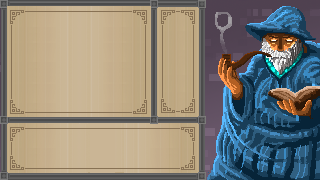
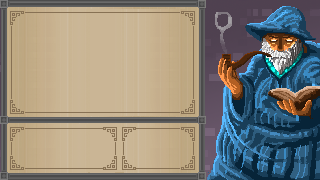
UI reordering, now using UITabs

Changed region(s): [[0.0312, 0.0, 0.625, 0.6944], [0.3125, 0.6944, 0.4375, 0.8056], [0.3125, 0.8611, 0.4375, 0.9444]]

diff --git a/BattleMages/Scenes/ShopScene.cs b/BattleMages/Scenes/ShopScene.cs
@@ -18,8 +18,14 @@ namespace BattleMages
 
         private AttributeRune selectedRune;
 
+        private UITab upperTab;
+        private UITab lowerLeftTab;
+        private UITab lowerRightTab;
+
         //bool for returning to the lobby after entering the shop
         private bool cPressed;
+
+        private string descriptionText;
 
         //TO DO:
         //connect "currentMoney" to master's "playerGold".
@@ -28,25 +34,53 @@ namespace BattleMages
 
         public ShopScene(Scene oldScene)
         {
+            upperTab = new UITab(this, GameWorld.Camera.Position - GameWorld.GameSize / 2 + new Vector2(12, 12), new Vector2(181, 100));
+            lowerLeftTab = new UITab(this, GameWorld.Camera.Position - GameWorld.GameSize / 2 + new Vector2(12, 129), new Vector2(103, 39));
+            lowerRightTab = new UITab(this, GameWorld.Camera.Position - GameWorld.GameSize / 2 + new Vector2(124, 129), new Vector2(69, 39));
+
+            descriptionText = "Click a rune to select it.";
+
             var content = GameWorld.Instance.Content;
             this.oldScene = oldScene;
             background = content.Load<Texture2D>("Backgrounds/ShopKeeperbg");
             font = content.Load<SpriteFont>("FontBM");
             titleFont = content.Load<SpriteFont>("TitleFont");
 
+            //Buy Button
+            var shopButton = content.Load<Texture2D>("Textures/UI/Spellbook/SmallButton");
+            var shopButton_hover = content.Load<Texture2D>("Textures/UI/Spellbook/SmallButton_Hover");
+            lowerRightTab.AddObject(ObjectBuilder.BuildButton(lowerRightTab.BotLeft + new Vector2(lowerRightTab.Size.X / 2, -8),
+                shopButton,
+                shopButton_hover,
+                 () =>
+                 {
+                     if (GameWorld.State.PlayerGold >= selectedRune.CostInShop)
+                     {
+                         GameWorld.State.PlayerGold -= selectedRune.CostInShop;
+                         //TODO: Add rune to the list of available runes
+                     }
+                 }, centered: true));
+
+            RefreshRuneList();
+        }
+
+        private void RefreshRuneList()
+        {
+            upperTab.Clear();
+
             int nextRuneX = 0;
             int nextRuneY = 0;
             int nextRunePos = 0;
 
-            var btnTex = content.Load<Texture2D>("Textures/UI/Spellbook/SmallButton");
-            var btnTexHover = content.Load<Texture2D>("Textures/UI/Spellbook/SmallButton_Hover");
+            var btnTex = GameWorld.Load<Texture2D>("Textures/UI/Spellbook/SmallButton");
+            var btnTexHover = GameWorld.Load<Texture2D>("Textures/UI/Spellbook/SmallButton_Hover");
 
             foreach (AttributeRune attrRune in StaticData.AttributeRunes)
             {
+                if (GameWorld.State.AvailableRunes.Contains(attrRune)) continue;
                 AttributeRune thisRune = attrRune;
 
-                Vector2 pos = new Vector2(GameWorld.Camera.Position.X - GameWorld.GameWidth / 2 + 16 + nextRuneX, GameWorld.Camera.Position.Y - GameWorld.GameHeight / 2 + 15 + nextRuneY);
-
+                Vector2 pos = upperTab.TopLeft + new Vector2(4 + nextRuneX, 4 + nextRuneY);
                 GameObject runeObj = new GameObject(pos + Vector2.One * 8);
                 runeObj.AddComponent(new Button(
                     btnTex,
@@ -54,10 +88,11 @@ namespace BattleMages
                     () =>
                     {
                         selectedRune = thisRune;
+                        descriptionText = selectedRune.Name + Environment.NewLine + selectedRune.Description;
                     },
                     centered: true));
                 runeObj.AddComponent(new SpriteRenderer(StaticData.RuneImagePath + thisRune.TextureName));
-                AddObject(runeObj);
+                upperTab.AddObject(runeObj);
 
                 nextRuneX += 16;
                 nextRunePos++;
@@ -67,47 +102,29 @@ namespace BattleMages
                     nextRuneY += 16;
                 }
             }
-            //Buy Button
-            var shopButton = content.Load<Texture2D>("Textures/UI/Spellbook/SmallButton");
-            var shopButton_hover = content.Load<Texture2D>("Textures/UI/Spellbook/SmallButton_Hover");
-            AddObject(ObjectBuilder.BuildButton(new Vector2(GameWorld.Camera.Position.X - GameWorld.GameWidth / 2 + 170, GameWorld.Camera.Position.Y - GameWorld.GameHeight / 2 + 50),
-                shopButton,
-                shopButton_hover,
-             () =>
-             {
-                 if (GameWorld.State.PlayerGold >= selectedRune.CostInShop)
-                 {
-                     GameWorld.State.PlayerGold -= selectedRune.CostInShop;
-                     //TODO: Add rune to the list of available runes
-                 }
-             }));
         }
 
         public override void Draw(Drawer drawer)
         {
-            //Text
             Color textColor = new Color(120, 100, 80);
-            drawer[DrawLayer.UI].DrawString(titleFont, "Description", new Vector2(GameWorld.Camera.Position.X - GameWorld.GameWidth / 2 + 50, GameWorld.Camera.Position.Y - GameWorld.GameHeight / 2 + 128), textColor);
-            drawer[DrawLayer.UI].DrawString(titleFont, "Your Money", new Vector2(GameWorld.Camera.Position.X - GameWorld.GameWidth / 2 + 40, GameWorld.Camera.Position.Y - GameWorld.GameHeight / 2 + 50), textColor);
-            drawer[DrawLayer.UI].DrawString(font, "Cost", new Vector2(GameWorld.Camera.Position.X - GameWorld.GameWidth / 2 + 168, GameWorld.Camera.Position.Y - GameWorld.GameHeight / 2 + 20), textColor);
+
+            //Draws the description
+            var descriptionPos = lowerLeftTab.TopLeft + Vector2.One * 4;
+            drawer[DrawLayer.UI].DrawString(font, Utils.WarpText(descriptionText, (int)lowerLeftTab.Size.X - 8, font), descriptionPos, textColor);
 
             if (selectedRune != null)
             {
-                //Draws the descriptions
-                var bottomLeftTextPos = new Vector2(GameWorld.Camera.Position.X - GameWorld.GameWidth / 2 + 20, GameWorld.Camera.Position.Y - GameWorld.GameHeight / 2 + 145);
-                drawer[DrawLayer.UI].DrawString(font, Utils.WarpText(selectedRune.Name + Environment.NewLine + selectedRune.Description, 150, font), bottomLeftTextPos, textColor);
-
                 //Draws costs of runes
-                var uppperTopTextPos = new Vector2(GameWorld.Camera.Position.X - GameWorld.GameWidth / 2 + 170, GameWorld.Camera.Position.Y - GameWorld.GameHeight / 2 + 35);
-                drawer[DrawLayer.UI].DrawString(font, selectedRune.CostInShop.ToString(), uppperTopTextPos, textColor);
+                var costPos = lowerRightTab.TopLeft + new Vector2(4, 14);
+                drawer[DrawLayer.UI].DrawString(font, "Cost: " + selectedRune.CostInShop, costPos, textColor);
             }
 
             //Draws player's current money
-            var currentMoneyPos = new Vector2(GameWorld.Camera.Position.X - GameWorld.GameWidth / 2 + 70, GameWorld.Camera.Position.Y - GameWorld.GameHeight / 2 + 70);
-            drawer[DrawLayer.UI].DrawString(font, GameWorld.State.PlayerGold.ToString(), currentMoneyPos, textColor);
+            var currentMoneyPos = lowerRightTab.TopLeft + new Vector2(4, 4);
+            drawer[DrawLayer.UI].DrawString(font, "Your gold: " + GameWorld.State.PlayerGold, currentMoneyPos, textColor);
 
             //background
-            drawer[DrawLayer.Background].Draw(background, new Vector2(GameWorld.Camera.Position.X - GameWorld.GameWidth / 2, GameWorld.Camera.Position.Y - GameWorld.GameHeight / 2));
+            drawer[DrawLayer.Background].Draw(background, GameWorld.Camera.Position - GameWorld.GameSize / 2);
 
             base.Draw(drawer);
         }

diff --git a/BattleMages/Scenes/SpellbookScene.cs b/BattleMages/Scenes/SpellbookScene.cs
@@ -8,35 +8,6 @@ using Microsoft.Xna.Framework.Input;
 
 namespace BattleMages
 {
-    public class SpellbookTab
-    {
-        private Scene scene;
-        private List<GameObject> objects = new List<GameObject>();
-
-        public Vector2 TopLeft { get; }
-
-        public SpellbookTab(Scene scene, Vector2 topLeft)
-        {
-            this.scene = scene;
-            TopLeft = topLeft;
-        }
-
-        public void AddObject(GameObject obj)
-        {
-            objects.Add(obj);
-            scene.AddObject(obj);
-        }
-
-        public void Clear()
-        {
-            foreach (GameObject obj in objects)
-            {
-                scene.RemoveObject(obj);
-            }
-            objects.Clear();
-        }
-    }
-
     public class SpellbookScene : Scene
     {
         private Texture2D background;
@@ -51,8 +22,8 @@ namespace BattleMages
         private bool tabPressed = true; //Assume that the TAB key is being pressed as soon as the scene is created.
 
         //Holds objects in a tab to delete them on tab change
-        private SpellbookTab leftTab;
-        private SpellbookTab rightTab;
+        private UITab leftTab;
+        private UITab rightTab;
 
         //NULL if no spell is being edited.
         private SpellInfo currentlyEditing;
@@ -90,8 +61,8 @@ namespace BattleMages
             background = GameWorld.Load<Texture2D>("Textures/Backgrounds/Spellbook");
             font = GameWorld.Instance.Content.Load<SpriteFont>("FontBM");
 
-            leftTab = new SpellbookTab(this, GameWorld.Camera.Position - new Vector2(GameWorld.GameWidth / 2, GameWorld.GameHeight / 2));
-            rightTab = new SpellbookTab(this, GameWorld.Camera.Position - new Vector2(0, GameWorld.GameHeight / 2));
+            leftTab = new UITab(this, GameWorld.Camera.Position - new Vector2(GameWorld.GameWidth / 2, GameWorld.GameHeight / 2), new Vector2(GameWorld.GameWidth / 2, GameWorld.GameHeight));
+            rightTab = new UITab(this, GameWorld.Camera.Position - new Vector2(0, GameWorld.GameHeight / 2), new Vector2(GameWorld.GameWidth / 2, GameWorld.GameHeight));
             OpenSpellsTab();
             OpenRunesTab();
         }
@@ -109,7 +80,7 @@ namespace BattleMages
 
         private void OpenSpellsTab()
         {
-            SpellbookTab t = rightTab;
+            UITab t = rightTab;
             t.Clear();
 
             bottomRightText = "Your active spells:";
@@ -209,7 +180,7 @@ namespace BattleMages
 
         private void OpenRunesTab()
         {
-            SpellbookTab t = leftTab;
+            UITab t = leftTab;
             t.Clear();
 
             bottomLeftText = "Hover over any rune to view its description.";
@@ -272,7 +243,7 @@ namespace BattleMages
         private void OpenRuneGrid()
         {
             if (currentlyEditing == null) return;
-            SpellbookTab t = rightTab;
+            UITab t = rightTab;
             t.Clear();
 
             bottomRightText = "Drag a rune to an appropriate slot to place it there.";

diff --git a/BattleMages/Library/GameWorld.cs b/BattleMages/Library/GameWorld.cs
@@ -1,11 +1,11 @@
-using Microsoft.Xna.Framework;
-using Microsoft.Xna.Framework.Content;
-using Microsoft.Xna.Framework.Graphics;
-using Microsoft.Xna.Framework.Input;
-using System;
+using System;
 using System.Collections.Generic;
 using System.Collections.ObjectModel;
 using System.Threading;
+using Microsoft.Xna.Framework;
+using Microsoft.Xna.Framework.Content;
+using Microsoft.Xna.Framework.Graphics;
+using Microsoft.Xna.Framework.Input;
 
 namespace BattleMages
 {
@@ -16,16 +16,13 @@ namespace BattleMages
     {
         //Constants
         public const int GameWidth = 320;
-
         public const int GameHeight = 180;
 
         //Fields
-
         private Drawer drawer;
 
         //Subsystems
         private Scene scene;
-
         private PlayerControls playerControls;
         private SoundManager soundManager;
         private Cursor cursor;
@@ -48,13 +45,12 @@ namespace BattleMages
 
         //Misc properties
         public float HalfViewPortWidth { get { return GraphicsDevice.Viewport.Width * 0.5f; } }
-
         public float HalfViewPortHeight { get { return GraphicsDevice.Viewport.Height * 0.5f; } }
         public Vector2 ScalingVector { get; set; }
+        public static Vector2 GameSize { get { return new Vector2(GameWidth, GameHeight); } }
 
         //Singleton pattern
         private static GameWorld instance;
-
         public static GameWorld Instance
         {
             get

diff --git a/BattleMages/Library/UITab.cs b/BattleMages/Library/UITab.cs
@@ -1,0 +1,49 @@
+using System;
+using System.Collections.Generic;
+using System.Linq;
+using System.Text;
+using System.Threading.Tasks;
+using Microsoft.Xna.Framework;
+
+namespace BattleMages
+{
+    /// <summary>
+    /// Used to position UI elements in a group and to remove all elements in the group at once.
+    /// </summary>
+    public class UITab
+    {
+        private Scene scene;
+        private List<GameObject> objects = new List<GameObject>();
+
+        private Vector2 position;
+        private Vector2 size;
+
+        public Vector2 Size { get { return size; } }
+        public Vector2 TopLeft { get { return position; } }
+        public Vector2 TopRight { get { return position + new Vector2(size.X, 0); } }
+        public Vector2 BotLeft { get { return position + new Vector2(0, size.Y); } }
+        public Vector2 BotRight { get { return position + size; } }
+
+        public UITab(Scene scene, Vector2 position, Vector2 size)
+        {
+            this.scene = scene;
+            this.position = position;
+            this.size = size;
+        }
+
+        public void AddObject(GameObject obj)
+        {
+            objects.Add(obj);
+            scene.AddObject(obj);
+        }
+
+        public void Clear()
+        {
+            foreach (GameObject obj in objects)
+            {
+                scene.RemoveObject(obj);
+            }
+            objects.Clear();
+        }
+    }
+}

diff --git a/BattleMages/Library/ObjectBuilder.cs b/BattleMages/Library/ObjectBuilder.cs
@@ -57,10 +57,10 @@ namespace BattleMages
             return gameObject;
         }
 
-        public static GameObject BuildButton(Vector2 position, Texture2D normalTex, Texture2D hoverTex, Button.ClickDelegate onClick, Button.ClickDelegate onRightClick = null, bool wiggle = false)
+        public static GameObject BuildButton(Vector2 position, Texture2D normalTex, Texture2D hoverTex, Button.ClickDelegate onClick, Button.ClickDelegate onRightClick = null, bool wiggle = false, bool centered = false)
         {
             GameObject gameObject = new GameObject(position);
-            gameObject.AddComponent(new Button(normalTex, hoverTex, onClick, onRightClick, wiggle));
+            gameObject.AddComponent(new Button(normalTex, hoverTex, onClick, onRightClick, wiggle, centered));
             return gameObject;
         }
 
